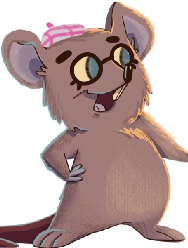
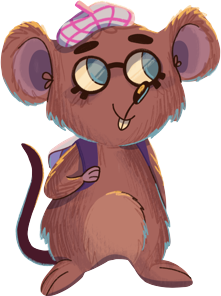
feature/add player jumpong

diff --git a/js/player.js b/js/player.js
@@ -1,10 +1,11 @@
 class Player {
-  constructor (x, y, w, h, c) {
+  constructor (x, y, w, h) {
     this.x = x;
     this.y = y - offset;
     this.w = w;
     this.h = h;
-    this.c = c;
+    this.player = document.getElementById('player')
+    this.playerJumping = document.getElementById('player-jumping')
 
     this.dy = 0;
     this.jumpForce = 20;
@@ -50,10 +51,9 @@ class Player {
   Draw () {
     ctx.beginPath();
     if (this.jumpTimer === 0) {
-      ctx.drawImage(this.c, this.x, this.y, this.w, this.h)
+      ctx.drawImage(this.player, this.x, this.y, this.w, this.h)
     } else {
-      ctx.fillStyle = this.c;
-      ctx.fillRect(this.x, this.y, this.w, this.h);
+      ctx.drawImage(this.playerJumping, this.x, this.y, this.w, this.h)
     }
     ctx.closePath();
   }

diff --git a/js/index.js b/js/index.js
@@ -66,7 +66,7 @@ function Start () {
     highscore = localStorage.getItem('highscore');
   }
 
-  player = new Player(25, 0, 120, 120, document.getElementById('player'));
+  player = new Player(25, 0, 120, 120);
 
   scoreText = new Text("Счет: " + score, 25, 50, "left", "#ffffff", "45");
   highscoreText = new Text("Рекорд: " + highscore, canvas.width - 25, 50, "right", "#ffffff", "45");

diff --git a/index.html b/index.html
@@ -10,6 +10,7 @@
 
   <canvas id="game">
     <img id="player" src="img/player.png">
+    <img id="player-jumping" src="img/player-jumping.png">
     <img id="fg" src="img/fg.png">
     <img id="bg" src="img/bg.png">
     <img id="obstacle_0" src="img/obstacle_0.png">
